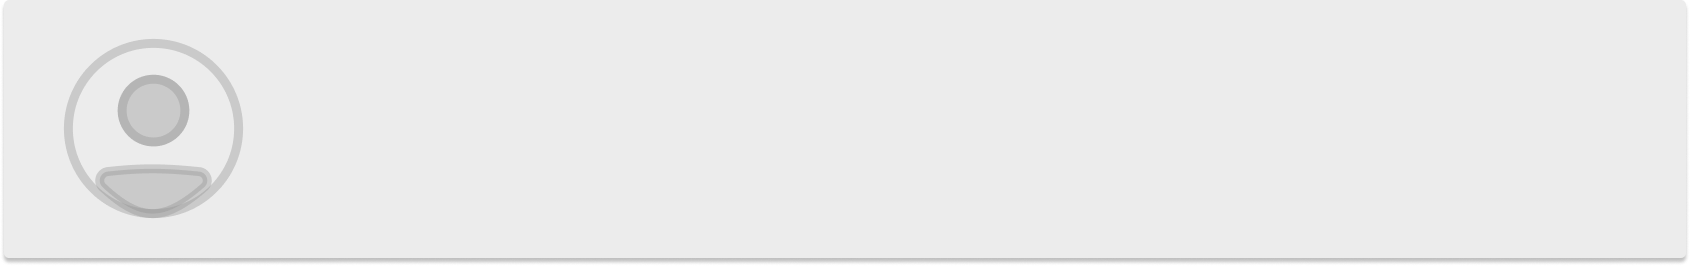
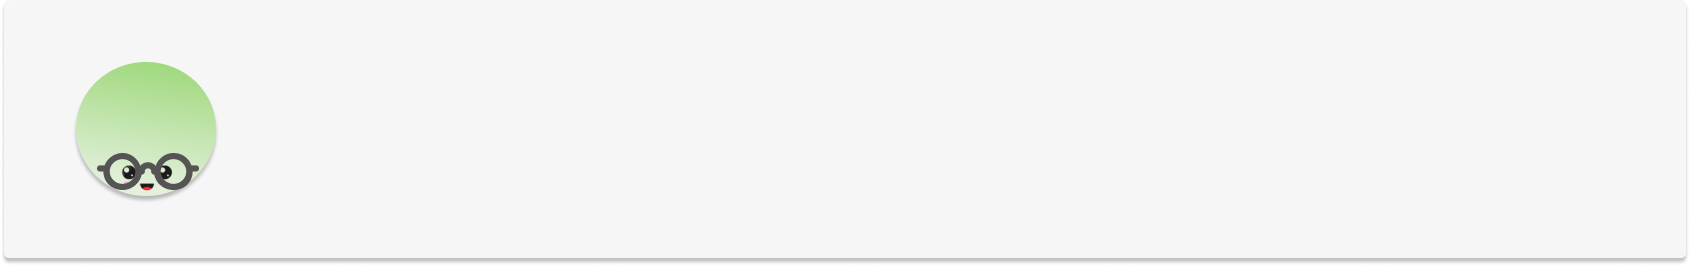
[FIX] 프로필 이미지 변경

Changed region(s): [[0.0308, 0.1504, 0.1538, 0.812]]

diff --git a/sgb_web/src/pages/components/MyPageInfoMentor.jsx b/sgb_web/src/pages/components/MyPageInfoMentor.jsx
@@ -1,7 +1,7 @@
 import React, { useEffect, useState } from "react";
 import axios from "axios";
 import "./MyPageInfo.css";
-import InfoBox from "./img/InfoBox.png";
+import InfoBox_mentor from "./img/InfoBox_mentor.png";
 import menu_whole from "./img/menu_whole.png";
 import menu_whole_active from "./img/menu_whole_active.png";
 import menu_green from "./img/menu_green.png";
@@ -443,7 +443,7 @@ function MyPageInfo() {
     <>
       <div className="mypage">
         <div className="infobox">
-          <img src={InfoBox} alt="infobox" width="600" height="200" />
+          <img src={InfoBox_mentor} alt="infobox" width="600" height="200" />
           <div className="infobox_content">
             <span className="info_big">{userInfo.name}</span>님, 원하는 건
             뭐든지 이루어질거에요!
